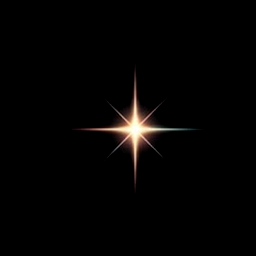
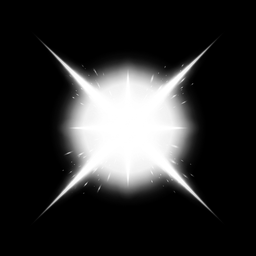
VFX: Gemini-made explosion, laser, flare and spark (+4 textures for later)
Seven source images were generated with gemini-3.1-flash-image (fireball,
smoke, sparks, laser, muzzle, engine, warp) and kept in art_src/gemini/.
tools/vfx_build.py turns them into game textures in public/fx/ and fx/:
- vfx_explosion_8x8.jpg: 2048px, 8x8. The fireball swells, cools from
  yellow to red and turns to smoke, fully black by the end. It replaces
  the 1024 catalog-cut atlas; frame layout is the same, so only the
  file name changed in the game.
- vfx_laser.png, vfx_flare.png, vfx_spark.png: grayscale replacements so
  the per-use tint (cyan player, red enemy, orange explosions) stays clean.
- For later wiring: vfx_explosion_small_4x4, vfx_muzzle_4x4,
  vfx_engine_glow and vfx_warp_streaks.
vfx_cut.py no longer writes those four files (it only makes lightning
and the legacy shield cell). Offline cache list updated.

Tested: headless Chromium serving the repo root and public/; every
texture loads (explosion 2048x2048), a gallery render shows clean frames,
explosions run, and there are no 404s or errors.

Claude-Session: https://claude.ai/code/session_01Rs5n8yXML6Z8zooWasvHTA

diff --git a/index.html b/index.html
@@ -17950,12 +17950,13 @@ const GAME_VERSION = 'Alpha 1.2';
 
     (function initNovaVfx() {
       const files = {
-        // Clean single-effect textures cut from the ./VFX/ reference sheets by tools/vfx_cut.py
+        // Game-ready textures: laser/flare/spark/explosion from Gemini sources (tools/vfx_build.py);
+        // lightning cut from the ./VFX/ sheets (tools/vfx_cut.py); shield hex generated with Gemini
         laser: './fx/vfx_laser.png',
         flare: './fx/vfx_flare.png',
         spark: './fx/vfx_spark.png',
         shield: './fx/vfx_shield_hex.png',   // seamless 1024 hex, generated with Gemini
-        explosion: './fx/vfx_explosion_8x8.png',   // 8x8 atlas, 56 frames
+        explosion: './fx/vfx_explosion_8x8.jpg',   // 8x8 atlas (2048px), 56 frames: fireball -> smoke (tools/vfx_build.py)
         lightning: './fx/vfx_lightning.png'
       };
       const quad1 = new THREE.PlaneGeometry(0.42, 2.8);

diff --git a/public/standalone.html b/public/standalone.html
@@ -17959,12 +17959,13 @@ const GAME_VERSION = 'Alpha 1.2';
 
     (function initNovaVfx() {
       const files = {
-        // Clean single-effect textures cut from the ./VFX/ reference sheets by tools/vfx_cut.py
+        // Game-ready textures: laser/flare/spark/explosion from Gemini sources (tools/vfx_build.py);
+        // lightning cut from the ./VFX/ sheets (tools/vfx_cut.py); shield hex generated with Gemini
         laser: './fx/vfx_laser.png',
         flare: './fx/vfx_flare.png',
         spark: './fx/vfx_spark.png',
         shield: './fx/vfx_shield_hex.png',   // seamless 1024 hex, generated with Gemini
-        explosion: './fx/vfx_explosion_8x8.png',   // 8x8 atlas, 56 frames
+        explosion: './fx/vfx_explosion_8x8.jpg',   // 8x8 atlas (2048px), 56 frames: fireball -> smoke (tools/vfx_build.py)
         lightning: './fx/vfx_lightning.png'
       };
       const quad1 = new THREE.PlaneGeometry(0.42, 2.8);

diff --git a/standalone.html b/standalone.html
@@ -17959,12 +17959,13 @@ const GAME_VERSION = 'Alpha 1.2';
 
     (function initNovaVfx() {
       const files = {
-        // Clean single-effect textures cut from the ./VFX/ reference sheets by tools/vfx_cut.py
+        // Game-ready textures: laser/flare/spark/explosion from Gemini sources (tools/vfx_build.py);
+        // lightning cut from the ./VFX/ sheets (tools/vfx_cut.py); shield hex generated with Gemini
         laser: './fx/vfx_laser.png',
         flare: './fx/vfx_flare.png',
         spark: './fx/vfx_spark.png',
         shield: './fx/vfx_shield_hex.png',   // seamless 1024 hex, generated with Gemini
-        explosion: './fx/vfx_explosion_8x8.png',   // 8x8 atlas, 56 frames
+        explosion: './fx/vfx_explosion_8x8.jpg',   // 8x8 atlas (2048px), 56 frames: fireball -> smoke (tools/vfx_build.py)
         lightning: './fx/vfx_lightning.png'
       };
       const quad1 = new THREE.PlaneGeometry(0.42, 2.8);

diff --git a/public/sw.js b/public/sw.js
@@ -22,13 +22,17 @@ const FILES = [
 "./art/reticle_lock.png",
 "./art/ring.png",
 "./art/sky.jpg",
-"./fx/vfx_explosion_8x8.png",
+"./fx/vfx_engine_glow.png",
+"./fx/vfx_explosion_8x8.jpg",
+"./fx/vfx_explosion_small_4x4.png",
 "./fx/vfx_flare.png",
 "./fx/vfx_laser.png",
 "./fx/vfx_lightning.png",
+"./fx/vfx_muzzle_4x4.png",
 "./fx/vfx_shield.png",
 "./fx/vfx_shield_hex.png",
 "./fx/vfx_spark.png",
+"./fx/vfx_warp_streaks.png",
 "./manifest.webmanifest",
 "./models/alien_attack_drone.glb",
 "./models/alien_attack_drone_lo.glb",

diff --git a/sw.js b/sw.js
@@ -22,13 +22,17 @@ const FILES = [
 "./art/reticle_lock.png",
 "./art/ring.png",
 "./art/sky.jpg",
-"./fx/vfx_explosion_8x8.png",
+"./fx/vfx_engine_glow.png",
+"./fx/vfx_explosion_8x8.jpg",
+"./fx/vfx_explosion_small_4x4.png",
 "./fx/vfx_flare.png",
 "./fx/vfx_laser.png",
 "./fx/vfx_lightning.png",
+"./fx/vfx_muzzle_4x4.png",
 "./fx/vfx_shield.png",
 "./fx/vfx_shield_hex.png",
 "./fx/vfx_spark.png",
+"./fx/vfx_warp_streaks.png",
 "./manifest.webmanifest",
 "./models/alien_attack_drone.glb",
 "./models/alien_attack_drone_lo.glb",

diff --git a/tools/vfx_build.py b/tools/vfx_build.py
@@ -1,0 +1,156 @@
+"""Build game-ready VFX textures from the Gemini source images in art_src/gemini/.
+
+Sources (made with gemini-3.1-flash-image, prompts in ASSET_BACKLOG.md): fireball, smoke,
+sparks, laser, muzzle, engine, warp. All are on pure black; the game draws them additively.
+
+Run from the repo root:  python3 tools/vfx_build.py
+Writes each texture to public/fx/ and fx/ (the PC servers serve the repo root). Requires Pillow.
+
+Animated sheets are built here rather than generated, so every frame lines up exactly:
+frame 0 is top-left, frames run left to right then top to bottom, and the last frames are black.
+"""
+import math
+import os
+from PIL import Image, ImageChops, ImageDraw, ImageEnhance, ImageFilter
+
+SRC = os.path.join('art_src', 'gemini')
+OUTS = [os.path.join('public', 'fx'), 'fx']
+
+
+def load(name):
+    return Image.open(os.path.join(SRC, name + '.jpg')).convert('RGB')
+
+
+def crush(img, black=20):
+    """Push near-black (JPEG noise) to pure black so additive blending shows no haze."""
+    return img.point(lambda v: 0 if v <= black else round((v - black) * 255 / (255 - black)))
+
+
+def vignette(img, frac=0.10):
+    """Fade the outer edge to black so nothing is cut off at a frame border."""
+    w, h = img.size
+    m = Image.new('L', (w, h), 0)
+    pad = max(2, int(min(w, h) * frac))
+    ImageDraw.Draw(m).ellipse([pad // 2, pad // 2, w - 1 - pad // 2, h - 1 - pad // 2], fill=255)
+    m = m.filter(ImageFilter.GaussianBlur(pad))
+    return ImageChops.multiply(img, Image.merge('RGB', (m, m, m)))
+
+
+def gray(img):
+    """Luminance only: the game tints these textures per use (cyan player, red enemy, orange boom)."""
+    return img.convert('L').convert('RGB')
+
+
+def save(img, name, mode=None, quality=None):
+    for d in OUTS:
+        os.makedirs(d, exist_ok=True)
+        out = img.convert(mode) if mode else img
+        path = os.path.join(d, name)
+        if name.endswith('.jpg'):
+            out.save(path, quality=quality or 90, optimize=True)
+        else:
+            out.save(path, optimize=True)
+    print('wrote', name, img.size)
+
+
+def ease_out(x):
+    return 1 - (1 - min(1.0, max(0.0, x))) ** 3
+
+
+def place(canvas, sprite, scale, alpha, angle=0.0):
+    """Additively paste `sprite` centred on `canvas`, scaled and faded."""
+    if alpha <= 0.002 or scale <= 0.01:
+        return
+    cw, ch = canvas.size
+    s = max(2, int(cw * scale))
+    sp = sprite.resize((s, s), Image.LANCZOS)
+    if angle:
+        sp = sp.rotate(angle, resample=Image.BICUBIC)
+    sp = ImageEnhance.Brightness(sp).enhance(alpha)
+    layer = Image.new('RGB', canvas.size, 0)
+    layer.paste(sp, ((cw - s) // 2, (ch - s) // 2))
+    canvas.paste(ImageChops.add(canvas, layer))
+
+
+def cool(img, t):
+    """Shift a fireball from white-yellow toward deep red as it cools (t 0..1)."""
+    r, g, b = img.split()
+    g = g.point(lambda v: v * (1 - 0.55 * t))
+    b = b.point(lambda v: v * (1 - 0.85 * t))
+    return Image.merge('RGB', (r, g, b))
+
+
+def sheet(frames, cols, rows, cell):
+    out = Image.new('RGB', (cols * cell, rows * cell), 0)
+    for i, f in enumerate(frames[:cols * rows]):
+        out.paste(f, ((i % cols) * cell, (i // cols) * cell))
+    return out
+
+
+def build_explosion():
+    """8x8 at 256 px. The game plays frames 0-55 over the billboard's life."""
+    fire = vignette(crush(load('fireball')), 0.08)
+    smoke = vignette(crush(load('smoke'), 12), 0.08)
+    cell, n_used = 256, 56
+    frames = []
+    for i in range(64):
+        t = i / (n_used - 1) if i < n_used else 1.0
+        f = Image.new('RGB', (cell, cell), 0)
+        if i < n_used:
+            # fireball: fast swell, holds, then cools and fades by ~75%
+            fs = 0.30 + 0.62 * ease_out(t / 0.30) + 0.10 * t
+            fa = 1.0 if t < 0.28 else max(0.0, 1 - (t - 0.28) / 0.47)
+            place(f, cool(fire, min(1, t / 0.7)), fs, fa, angle=t * 25)
+            # smoke: rises in as the fire cools, drifts outward, gone by the end
+            sa = 0.0 if t < 0.25 else (min(1, (t - 0.25) / 0.25) * max(0.0, 1 - (t - 0.55) / 0.45) if t > 0.55 else min(1, (t - 0.25) / 0.25))
+            place(f, smoke, 0.80 + 0.30 * t, 0.85 * sa, angle=-t * 15)
+        frames.append(f)
+    save(sheet(frames, 8, 8, cell), 'vfx_explosion_8x8.jpg', quality=88)
+
+
+def build_burst(src, name, cols, cell, grow=(0.35, 1.0)):
+    """Small one-shot burst sheets: scale up and fade out."""
+    img = vignette(crush(load(src)), 0.08)
+    n = cols * cols
+    frames = []
+    for i in range(n):
+        t = i / (n - 1)
+        f = Image.new('RGB', (cell, cell), 0)
+        place(f, img, grow[0] + (grow[1] - grow[0]) * ease_out(t), (1 - t) ** 1.5, angle=t * 20)
+        frames.append(f)
+    save(sheet(frames, cols, cols, cell), name)
+
+
+def build_laser():
+    """Vertical bolt, head at the bottom of the texture (= -Z, forward, on the fins)."""
+    img = crush(load('laser'))
+    bbox = gray(img).getbbox()
+    if bbox:
+        x0, y0, x1, y1 = bbox
+        cy, h = (y0 + y1) // 2, max(40, int((y1 - y0) * 1.6))
+        img = img.crop((max(0, x0 - 10), max(0, cy - h // 2), min(img.width, x1 + 10), min(img.height, cy + h // 2)))
+    img = gray(img).rotate(90, expand=True).resize((128, 512), Image.LANCZOS)
+    save(vignette(img, 0.06), 'vfx_laser.png', mode='L')
+
+
+def build_single(src, name, size, grayscale=True, frac=0.08):
+    img = vignette(crush(load(src)), frac).resize((size, size), Image.LANCZOS)
+    if grayscale:
+        save(gray(img), name, mode='L')
+    else:
+        save(img, name)
+
+
+def main():
+    build_explosion()                                            # replaces the catalog-cut atlas
+    build_laser()                                                # replaces catalog-cut bolt
+    build_single('muzzle', 'vfx_flare.png', 256)                 # generic flare / tip / core flash
+    build_single('sparks', 'vfx_spark.png', 256)                 # arcs and shield-break bursts
+    build_burst('sparks', 'vfx_explosion_small_4x4.png', 4, 128)  # for bullet hits (not wired yet)
+    build_burst('muzzle', 'vfx_muzzle_4x4.png', 4, 128, (0.5, 1.0))  # not wired yet
+    build_single('engine', 'vfx_engine_glow.png', 256, grayscale=False)  # not wired yet
+    build_single('warp', 'vfx_warp_streaks.png', 1024, frac=0.0)  # not wired yet
+
+
+if __name__ == '__main__':
+    main()

diff --git a/tools/vfx_cut.py b/tools/vfx_cut.py
@@ -60,30 +60,7 @@ def main():
     os.makedirs(OUT, exist_ok=True)
     os.makedirs(OUT_ROOT, exist_ok=True)
 
-    # Explosion: 10x6 grid, 56 usable frames -> clean 8x8 atlas (1024 px, 128 px cells).
-    ex = load('explosion VFX1.jpg')
-    cw, ch = ex.width / 10, ex.height / 6
-    atlas = Image.new('RGB', (1024, 1024), 0)
-    for i in range(56):
-        c, r = i % 10, i // 10
-        f = cell(ex, round(c * cw), round(r * ch), round((c + 1) * cw), round((r + 1) * ch))
-        f = feather(fit(f, (128, 128)), 0.08)
-        atlas.paste(f, ((i % 8) * 128, (i // 8) * 128))
-    save(atlas, 'vfx_explosion_8x8.png')
-
-    # Laser: row 7 (white bolt, tinted in game). Rotated so the head points down the
-    # texture, which maps to -Z (forward) on the bolt fins.
-    la = load('lasers.jpg')
-    rh = la.height / 8
-    bolt = cell(la, 20, round(6 * rh), 1000, round(7 * rh), inset=2)
-    save(feather(fit(bolt.rotate(90, expand=True), (128, 512)), 0.06), 'vfx_laser.png')
-
-    # Glows sheet: 4x3 grid between x 45..1001, y 49..559.
-    gl = load('glows and flares.jpg')
-    gx, gy, gw, gh = 45, 49, (1001 - 45) / 4, (559 - 49) / 3
-    g = lambda c, r: cell(gl, round(gx + c * gw), round(gy + r * gh), round(gx + (c + 1) * gw), round(gy + (r + 1) * gh), inset=4)
-    save(feather(fit(g(2, 0), (256, 256)), 0.10), 'vfx_flare.png')   # white 4-point star
-    save(feather(fit(g(3, 1), (256, 256)), 0.10), 'vfx_spark.png')   # blue electric burst
+    # Explosion, laser, flare and spark now come from Gemini sources: see tools/vfx_build.py.
 
     # Shield: hex cell (row 1, col 1) of the 8x8 grid between x 77..998, y 76..572.
     sh = load('energy shields.jpg')

diff --git a/ASSET_BACKLOG.md b/ASSET_BACKLOG.md
@@ -11,17 +11,19 @@ How to deliver: upload to the right folder on a new branch through the GitHub we
 
 ## P1: VFX upgrade (biggest visual win)
 
+Sources: `art_src/gemini/` (made with `gemini-3.1-flash-image`). Rebuild the textures with `python3 tools/vfx_build.py`.
+
 The current effects are cut from low-resolution catalog sheets (explosion frames are only about 100 px). Make proper sheets to `ASSET_SPEC.md`: square, no grid lines, black background.
 
 | Item | File | Size / grid | Notes | Status |
 |---|---|---|---|---|
-| Large explosion | `public/fx/vfx_explosion_large_8x8.png` | 2048², 8×8 | Fireball → smoke, fades fully to black by the last frame | |
-| Small explosion / hit | `public/fx/vfx_explosion_small_4x4.png` | 1024², 4×4 | Quick spark burst for bullet hits and asteroid chips | |
+| Large explosion | `public/fx/vfx_explosion_8x8.jpg` | 2048², 8×8 | Fireball → smoke, fades fully to black by the last frame | **Delivered + in game** (Gemini fireball and smoke, animated by `tools/vfx_build.py`) |
+| Small explosion / hit | `public/fx/vfx_explosion_small_4x4.png` | 512², 4×4 | Quick spark burst for bullet hits and asteroid chips | **Delivered**, not wired yet |
 | Shield hex (tileable) | `public/fx/vfx_shield_hex.png` | 1024², 1 frame | Seamless honeycomb, white/cyan lines on black | **Delivered** (Gemini, Claude) |
-| Player laser | `public/fx/vfx_laser_player.png` | 128×512 | Vertical bolt, head at the **bottom**, white core (tinted in game) | |
-| Muzzle flash | `public/fx/vfx_muzzle_4x4.png` | 512², 4×4 | Short, star-shaped | |
-| Engine glow | `public/fx/vfx_engine_glow.png` | 256² | Soft round glow, white/blue | |
-| Warp streaks | `public/fx/vfx_warp_streaks.png` | 1024² | Radial lines for hyperspace, tileable around the circle | |
+| Player laser | `public/fx/vfx_laser.png` | 128×512 | Vertical bolt, head at the **bottom**, white core (tinted in game) | **Delivered + in game** (Gemini, grayscale) |
+| Muzzle flash | `public/fx/vfx_muzzle_4x4.png` | 512², 4×4 | Short, star-shaped | **Delivered**, not wired yet. The single star is in game as `vfx_flare.png` |
+| Engine glow | `public/fx/vfx_engine_glow.png` | 256² | Soft round glow, white/blue | **Delivered**, not wired yet |
+| Warp streaks | `public/fx/vfx_warp_streaks.png` | 1024² | Radial lines for hyperspace, tileable around the circle | **Delivered**, not wired yet |
 
 ## P2: Docking (supports GPT's docking update)
 

diff --git a/AI_STATUS.md b/AI_STATUS.md
@@ -30,6 +30,7 @@ Several AIs may hold claims at once, as long as their files don't overlap. Add a
 
 Newest first. Keep each entry short: what changed, the PR, checks run, and the next step.
 
+- **Claude: Gemini VFX pack** (branch `claude/alpha-1.2`). Seven Gemini source images (`art_src/gemini/`: fireball, smoke, sparks, laser, muzzle, engine, warp) built into game textures by `tools/vfx_build.py`. In game: a 2048 px 8×8 explosion (fireball → smoke) and grayscale laser, flare and spark. Delivered but not wired yet: small hit burst, muzzle sheet, engine glow, warp streaks. `vfx_cut.py` now only makes lightning and the legacy shield cell. Checks: headless Chromium from the repo root and `public/` (all textures load, rendered in front of the camera, explosions run, no 404s or errors).
 - **Google AI Studio + Claude: side panel layouts** (branch `claude/alpha-1.2`). AI Studio ran out of usage, so the owner uploaded its `standalone.html`. It was based on 642938b and changed only the panel/UI code (`np*` panels, gestures, keyboard `novaKb*`, `novaChoice*`). Claude three-way merged it onto the shield branch with no conflicts, kept all later fixes (VFX, fx/, shield hex, gamepad), restored the import map, and set the version to Alpha 1.2 (cache `nova-alpha-1.2`). Checks: `node --check`; headless Chromium shows the side panels, with no 404s or errors.
 - **Claude: Gemini shield texture** (branch `claude/shield-hex`). First asset generated through the Gemini API (`gemini-3.1-flash-image`): a seamless 1024 px hex shield, stored grayscale (387 KB) in `public/fx/` and `fx/`. It replaces the 128 px hex on the shield dome, shield hits and drone rings; offline cache bumped to `nova-alpha-1.1b`. Only the NOVA_VFX texture map and shield repeat lines changed. Checks: headless Chromium (loads at 1024², no 404s or errors, rendered on a dome).
 - **Claude: Alpha 1.1** (PR #5). Version bump, offline cache `nova-alpha-1.1` (now includes `vendor/three.core.js`, `SkeletonUtils.js` and `fx/`), root `fx/` textures for the PC servers, `TESTING.md`, `ASSET_BACKLOG.md`, and a manual GitHub Pages deploy workflow. Checks: headless Chromium serving both the repo root and `public/` (textures and models load, no 404s or errors). Next: the owner pulls in GitHub Desktop and runs `TESTING.md` on PC and Quest; then Claude merges AI Studio's panels and GPT's docking into Alpha 1.2.
